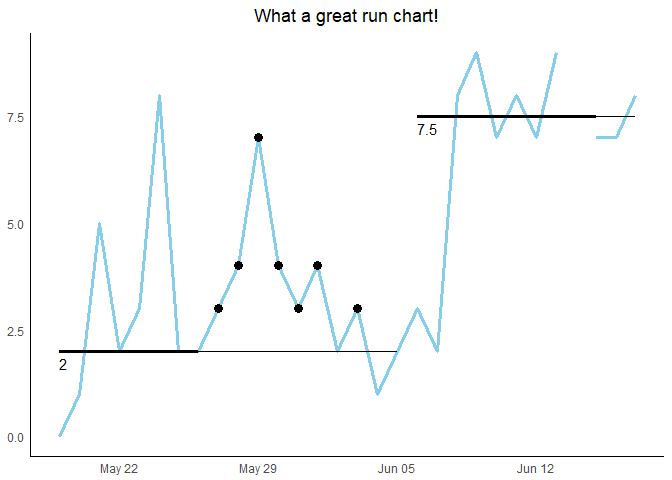
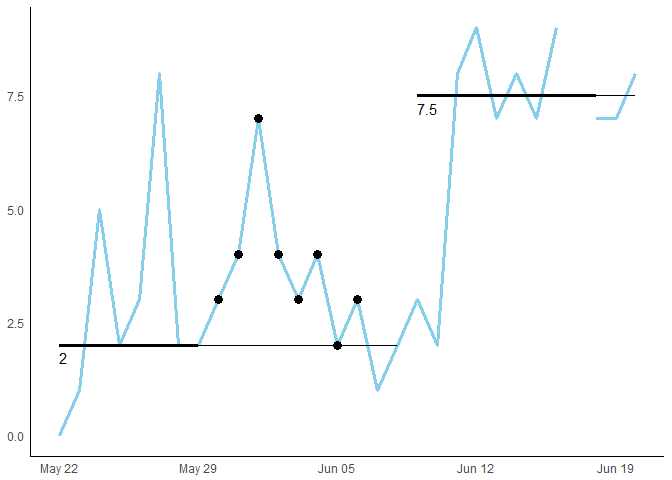
update README for new trend and shift functions

diff --git a/README.md b/README.md
@@ -34,8 +34,6 @@ The easiest place to start is with `rc_plot()`. This function takes a data frame
 library(runchart)
 library(ggplot2)
 
-set.seed(0)
-
 n     <- 30
 date  <- seq.Date(Sys.Date(), by = "day", length.out = n)
 value <- c(0,1,5,2,3,8,2,2,3,4,7,4,3,4,2,3,1,2,3,2,8,9,7,8,7,9,NA,7,7,8)
@@ -48,8 +46,7 @@ rc_plot(df)
 
 <img src="README-unnamed-chunk-2-1.png" style="display: block; margin: auto;" />
 
-Things to Notice
-----------------
+### Things to Notice
 
 There are several behaviours to notice in the plot above:
 
@@ -63,8 +60,7 @@ There are several behaviours to notice in the plot above:
 
 The functions exported by the `runchart` package have been well tested using the `testthat` package to correctly handle such different scenarios and edge cases.
 
-Going Further
--------------
+### Accessing the Numbers
 
 If you need the fields that sit behind the run chart plot: use `rc_fields()`:
 
@@ -91,13 +87,38 @@ There is no fixed methodology for creating run charts. Here are some functions w
 If you require a single baseline with shifts and trends, you can use the `basic_shift()` and `basic_trend()` functions:
 
 ``` r
-base = median(value, na.rm = T)
 
-basic_shift(base = base, val = value)
-#>  [1] 13 15 16 17 18 19 20 21 22 23 24 25 26 28 29 30
-basic_trend(val = value)
-#> [1]  8 29
+value <- c(0,1,5,2,3,8,2,2,3,4,7,4,3,4,2,3,3,4,6,8,8,9,7,8,7,9,NA,7,7,8)
+base  <- median(value, na.rm = T)
+
+# `basic_shift()` and `basic_trend()` return the indices of shifts and trends
+shift       <- trend <- value*NA
+shift_index <- basic_shift(base = base, val = value)
+trend_index <- basic_trend(val = value)
+
+shift[shift_index] <- value[shift_index]
+trend[trend_index] <- value[trend_index]
+base  <- rep(base, length(value))
+
+rc_fields <- data.frame(date  = date,
+                        value = value,
+                        base  = base,
+                        shift = shift,
+                        trend = trend)
+
+ggplot(rc_fields, aes(date, value)) +
+  geom_line(colour = 'skyblue', size = 1.1) +
+  geom_line(aes(y = base)) +
+  geom_line(colour = 'blue', aes(y = trend), size = 1.1) +
+  geom_point(aes(y = shift), shape = 16, size = 2, colour = 'black',
+               stroke = 2) +
+  theme_classic() + theme(axis.title.x=element_blank(),
+                              axis.title.y=element_blank(),
+                              axis.ticks.x=element_blank(),
+                              axis.ticks.y=element_blank())
 ```
+
+<img src="README-unnamed-chunk-4-1.png" style="display: block; margin: auto;" />
 
 [1] As defined by the NHS Scotland Quality Improvement Hub
 
